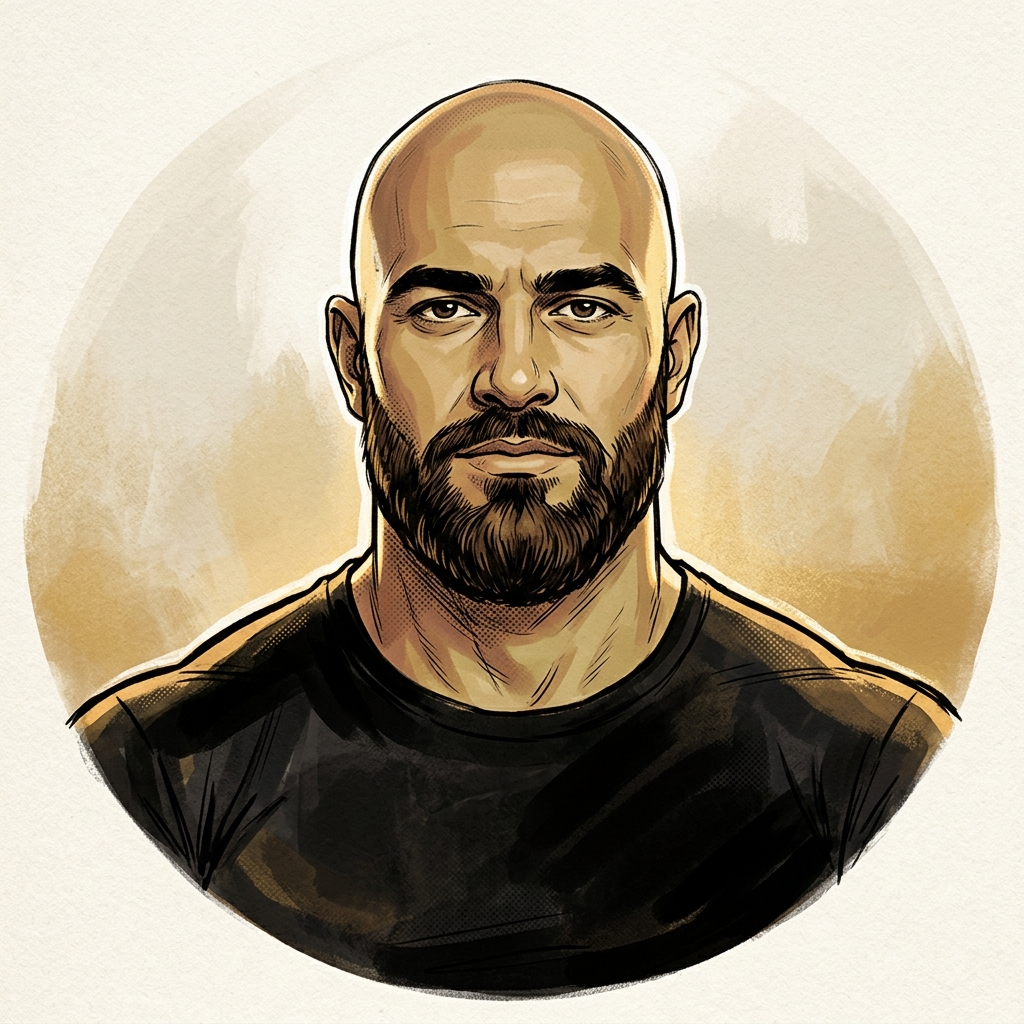
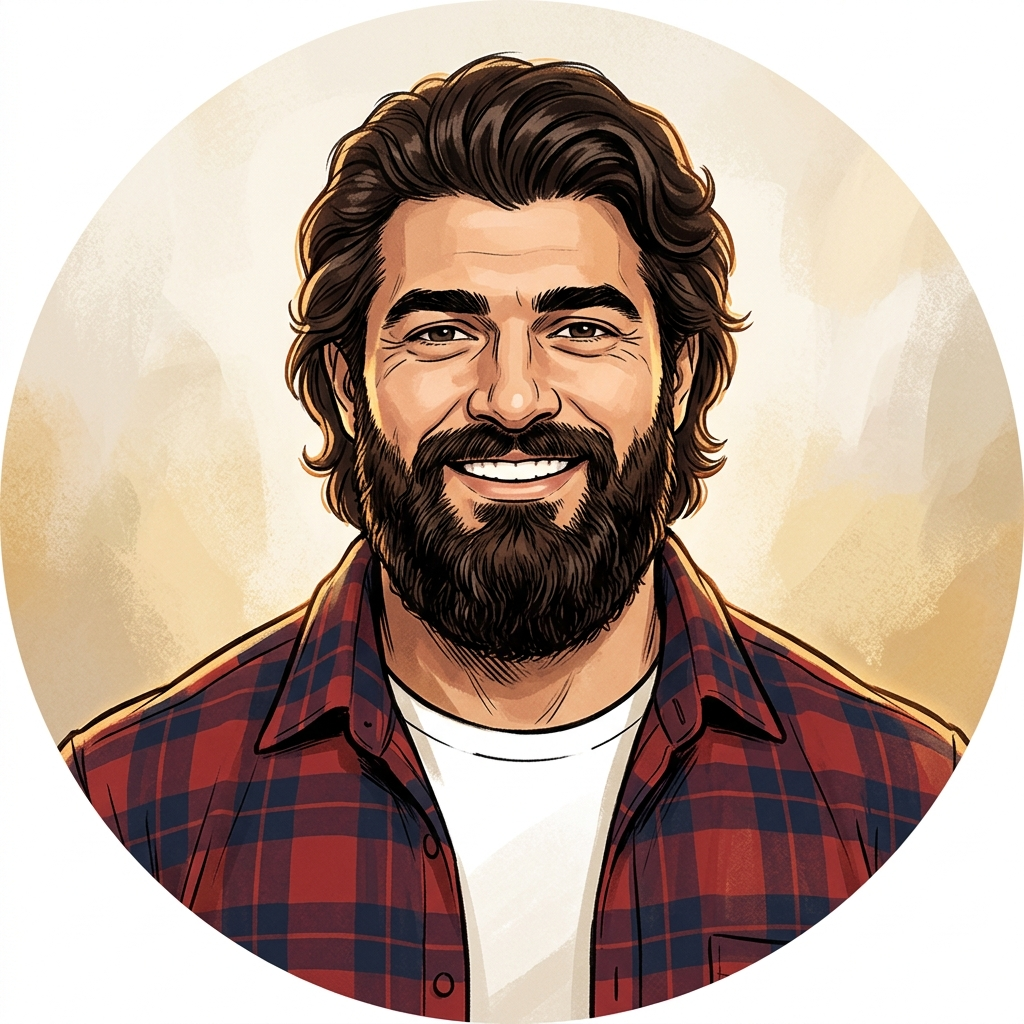
Fix Hormozi likeness: dark wavy hair (not bald), full beard, plaid over white tee
Corrected from a reference — he has thick swept-back hair, not a bald head.

diff --git a/tools/generate-advisors.py b/tools/generate-advisors.py
@@ -36,7 +36,7 @@ STYLE=("A stylized editorial ILLUSTRATION rendered from a real photograph — a 
  "Square 1:1, framed for a circular avatar crop.")
 # stylized illustrations OF the actual public figures (recognizable likeness, per Adam's direction)
 ADV=[
- ("hormozi","Alex Hormozi, the entrepreneur and author of $100M Offers — a very muscular, powerfully built bald man in his mid-30s with a FULL thick dark well-groomed beard covering the jaw, a broad square face, thick neck, olive-tan skin, heavy dark eyebrows and an intense direct confident gaze, wearing a plain fitted black crew-neck t-shirt over big shoulders"),
+ ("hormozi","Alex Hormozi, the entrepreneur — a muscular, powerfully built man in his mid-30s with THICK DARK WAVY BROWN HAIR swept back off the forehead (medium length, tousled, NOT bald), a full thick dark-brown beard covering the jaw, heavy dark eyebrows, warm genuine broad smile with visible teeth, broad shoulders, wearing an open red-and-navy plaid flannel shirt over a white crew-neck tee"),
  ("godin","Seth Godin, the marketing author of Purple Cow and This Is Marketing — a warm bald man in his 60s with round wire glasses, an animated knowing smile, often a bright yellow accent"),
  ("watts","Alan Watts, the British philosopher of Zen and presence — a serene man in his 50s-60s with swept-back greying hair and a trimmed goatee, twinkling amused eyes, mid-century intellectual air"),
  ("jobs","Steve Jobs, the Apple co-founder — a lean man with a short grey beard, round rimless glasses, and a simple black turtleneck, thoughtful intense expression"),